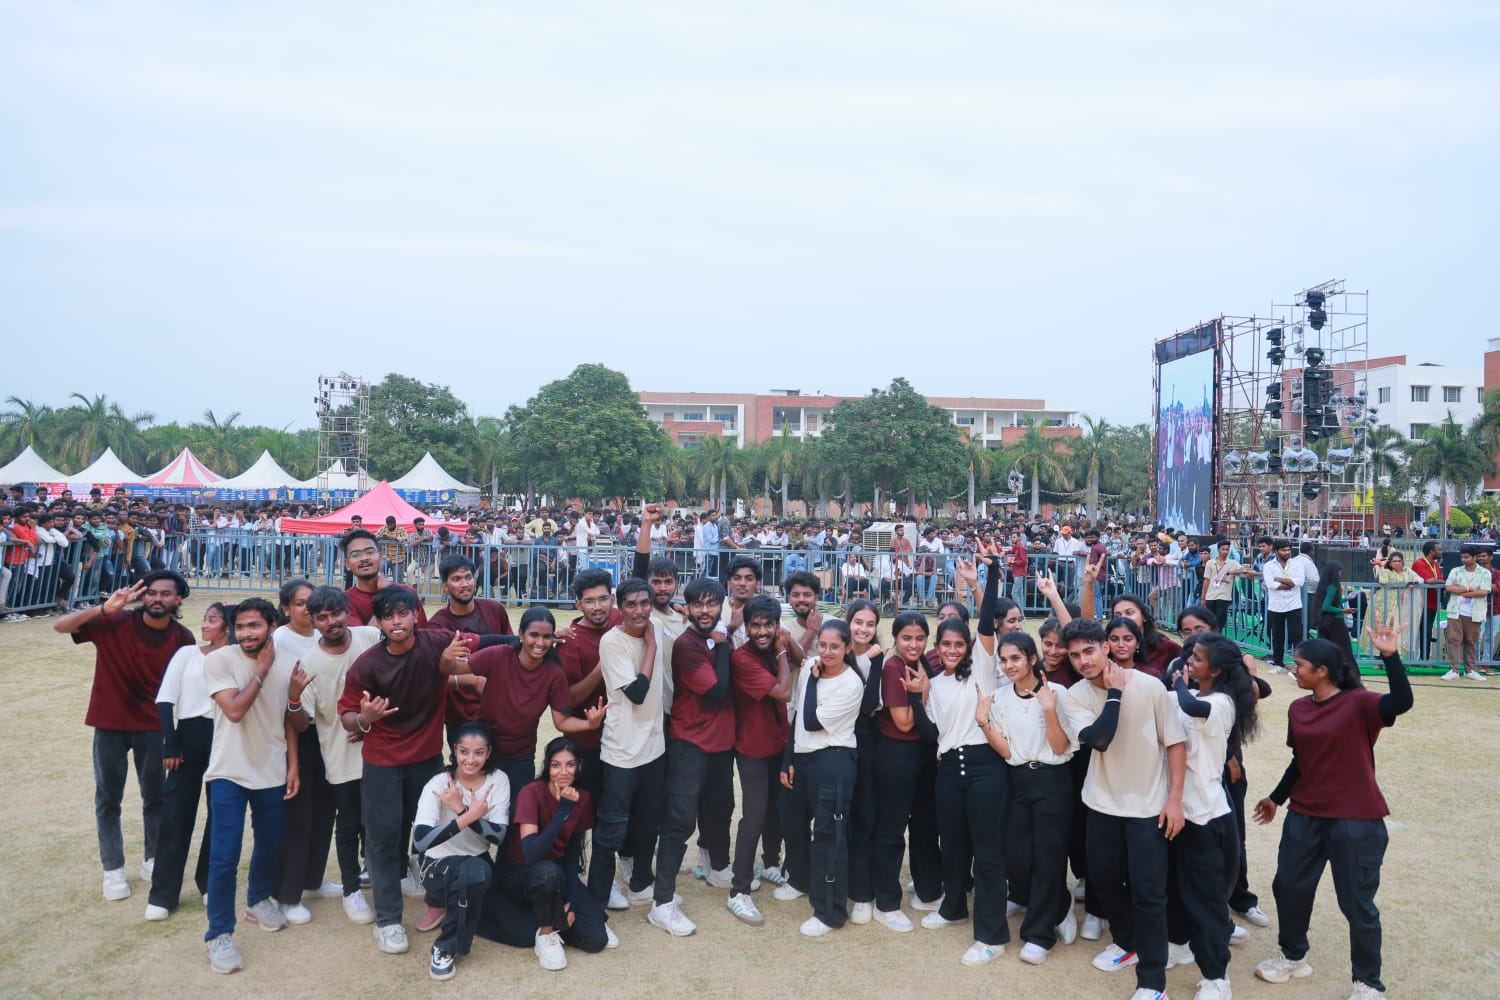
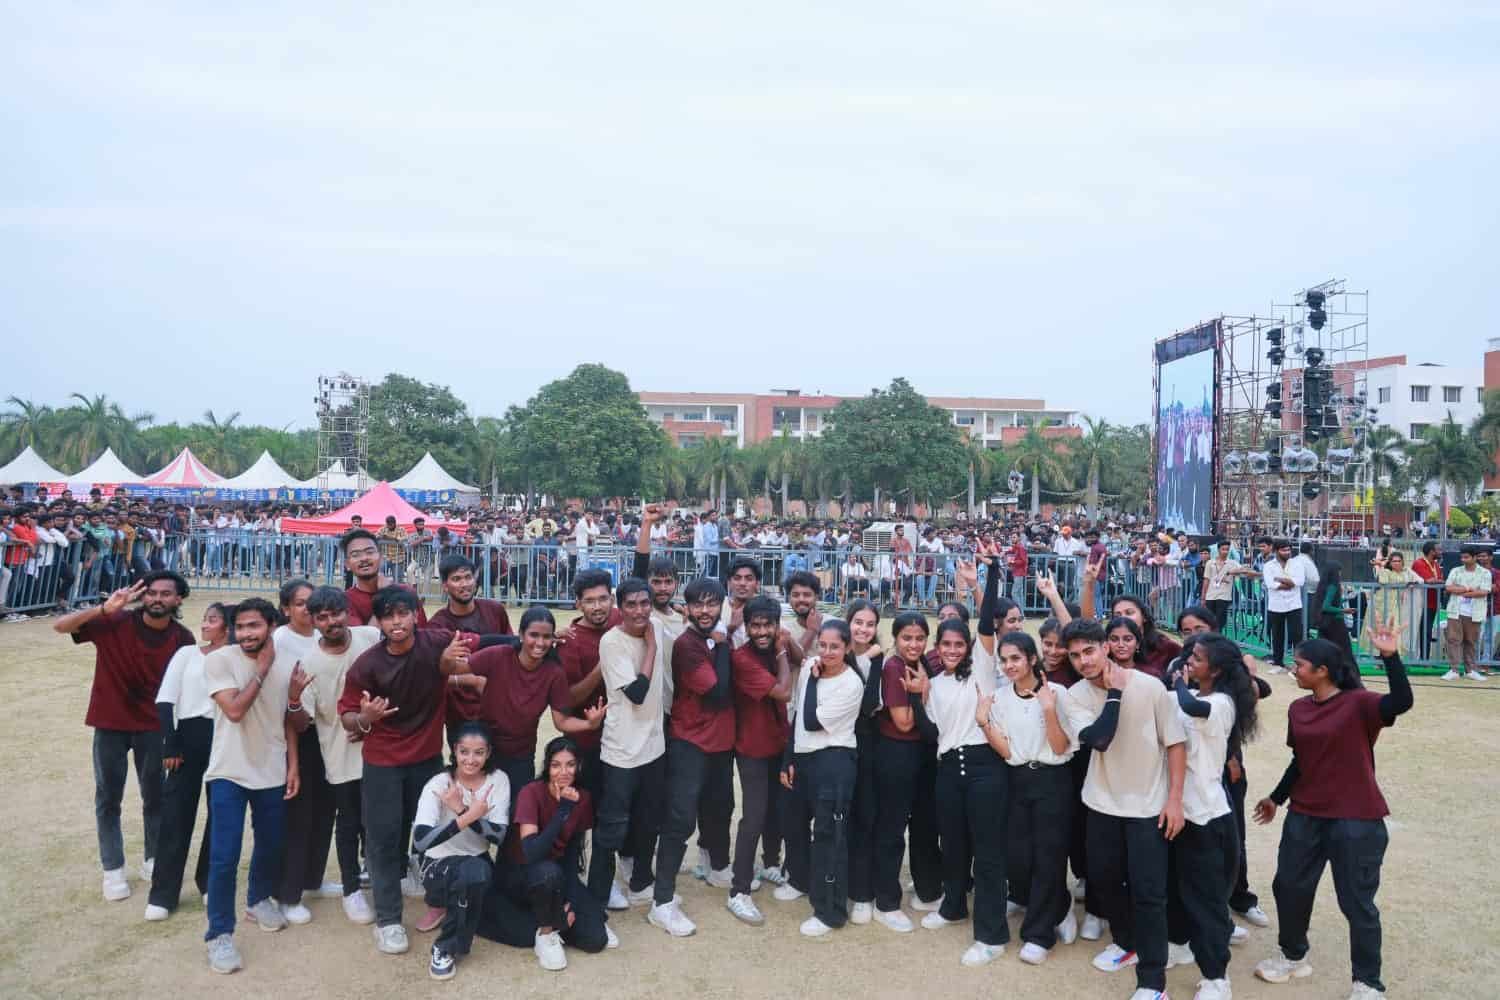
Images sizes are reduced and optimized the speed of gallery page

diff --git a/src/pages/Highlights.tsx b/src/pages/Highlights.tsx
@@ -1,4 +1,4 @@
-import React from "react";
+import React, { Suspense, useEffect } from "react";
 import PillNav from "../components/ui/pillNav";
 import Logo from "@/assets/spark-logo.png";
 import PreviousYear from "@/components/PreviousYear";
@@ -8,207 +8,209 @@ import { BeamsBackground } from "@/components/ui/beams";
 import CircularTestimonials from "@/components/ui/bts";
 import { motion } from "motion/react";
 import Footer from "@/components/Footer";
+import { useLocation } from "react-router-dom";
+import { SmoothScroll } from "@/components/ui/smooth-scroll";
+
+
+// YOUR EXACT ORIGINAL IMAGES - UNCHANGED
 import img1 from "../assets/gallery_images/img1.jpg";
-import img2 from "../assets/gallery_images/img2.jpg";
+import img19 from "../assets/gallery_images/img19.jpg";
 import img3 from "../assets/gallery_images/img3.jpg";
 import img4 from "../assets/gallery_images/img4.jpg";
 import img5 from "../assets/gallery_images/img5.jpg";
 import img6 from "../assets/gallery_images/img6.jpg";
 import img7 from "../assets/gallery_images/img7.jpg";
 import img8 from "../assets/gallery_images/img8.jpg";
-import img9 from "../assets/gallery_images/img9.jpg";
-import img10 from "../assets/gallery_images/img10.jpg";
+import img21 from "../assets/gallery_images/img21.jpg";
+import img25 from "../assets/gallery_images/img25.jpg";
 import img11 from "../assets/gallery_images/img11.jpg";
 import img12 from "../assets/gallery_images/img12.jpg";
 import img13 from "../assets/gallery_images/img13.jpg";
 import img14 from "../assets/gallery_images/img14.jpg";
-import img15 from "../assets/gallery_images/img15.jpg";
-import img16 from "../assets/gallery_images/img16.jpg";
-import img17 from "../assets/gallery_images/img17.jpg";
-import img18 from "../assets/gallery_images/img18.jpg";
-import img19 from "../assets/gallery_images/img19.jpg";
-import img20 from "../assets/gallery_images/img20.jpg";
-import img21 from "../assets/gallery_images/img21.jpg";
-import img22 from "../assets/gallery_images/img22.jpg";
-import img23 from "../assets/gallery_images/img23.jpg";
-import img24 from "../assets/gallery_images/img24.jpg";
-import img25 from "../assets/gallery_images/img25.jpg";
-import img26 from "../assets/gallery_images/img26.jpg";
-import img27 from "../assets/gallery_images/img27.jpg";
-import img28 from "../assets/gallery_images/img28.jpg";
-import img29 from "../assets/gallery_images/img29.jpg";
-import img30 from "../assets/gallery_images/img30.jpg";
-import img31 from "../assets/gallery_images/img31.jpg";
-import img32 from "../assets/gallery_images/img32.jpg";
-import img33 from "../assets/gallery_images/img33.jpg";
-import img34 from "../assets/gallery_images/img34.jpg";
-import img35 from "../assets/gallery_images/img35.jpg";
-import img36 from "../assets/gallery_images/img36.jpg";
-import img37 from "../assets/gallery_images/img37.jpg";
-import img38 from "../assets/gallery_images/img38.jpg";
-import img39 from "../assets/gallery_images/img39.jpg";
 import img41 from "../assets/gallery_images/img41.jpg";
+import img35 from "../assets/gallery_images/img35.jpg";
+import img29 from "../assets/gallery_images/img29.jpg";
+import img18 from "../assets/gallery_images/img18.jpg";
+import img2 from "../assets/gallery_images/img2.jpg";
+import img20 from "../assets/gallery_images/img20.jpg";
+import img39 from "../assets/gallery_images/img39.jpg";
 import img42 from "../assets/gallery_images/img42.jpg";
+import img26 from "../assets/gallery_images/img26.jpg";
 
-
-
-
-
-
-
-import { useLocation } from "react-router-dom";
 
 const products = [
-  { title: "", link: "#", thumbnail: img1 },
-  { title: "", link: "#", thumbnail: img19 },
-  { title: "", link: "#", thumbnail: img3 },
-  { title: "", link: "#", thumbnail: img4 },
-  { title: "", link: "#", thumbnail: img5 },
-  { title: "", link: "#", thumbnail: img6 },
-  { title: "", link: "#", thumbnail: img7 },
-  { title: "", link: "#", thumbnail: img8 },
-  { title: "", link: "#", thumbnail: img21 },
-  { title: "", link: "#", thumbnail: img25 },
-  { title: "", link: "#", thumbnail: img11 },
-  { title: "", link: "#", thumbnail: img12 },
-  { title: "", link: "#", thumbnail: img13 },
-  { title: "", link: "#", thumbnail: img14 },
-  { title: "", link: "#", thumbnail: img41 },
+  { title: "", link: "#", thumbnail: img1 },
+  { title: "", link: "#", thumbnail: img19 },
+  { title: "", link: "#", thumbnail: img3 },
+  { title: "", link: "#", thumbnail: img4 },
+  { title: "", link: "#", thumbnail: img5 },
+  { title: "", link: "#", thumbnail: img6 },
+  { title: "", link: "#", thumbnail: img7 },
+  { title: "", link: "#", thumbnail: img8 },
+  { title: "", link: "#", thumbnail: img21 },
+  { title: "", link: "#", thumbnail: img25 },
+  { title: "", link: "#", thumbnail: img11 },
+  { title: "", link: "#", thumbnail: img12 },
+  { title: "", link: "#", thumbnail: img13 },
+  { title: "", link: "#", thumbnail: img14 },
+  { title: "", link: "#", thumbnail: img41 },
 ];
+
 
 const galleryItems = [
-  { image: img35, text: "" },
-  { image: img29, text: "" },
-  { image: img18, text: "" },
-  { image: img2, text: "" },
-  { image: img20, text: "" },
+  { image: img35, text: "" },
+  { image: img29, text: "" },
+  { image: img18, text: "" },
+  { image: img2, text: "" },
+  { image: img20, text: "" },
 ];
 
-const images = [
-  img25, img39, img42, img26
-];
 
-import { SmoothScroll } from "@/components/ui/smooth-scroll";
+const images = [img25, img39, img42, img26];
+
 
 const HighlightsPage: React.FC = () => {
-  const location = useLocation();
-  return (
-    <>
-      <>
-        <div className="fixed top-0 left-0 right-0 z-[1000]">
-          <PillNav
-            logo={Logo}
-            logoAlt="spark Logo"
-            items={[
-              { label: "Gallery", href: "/highlights" },
-              { label: "Proshow", href: "/proshow" },
-              { label: "Team", href: "/team" },
-              { label: "Register", href: "/register" },
-            ]}
-            activeHref="/highlights"
-            className="custom-nav"
-            ease="power2.easeOut"
-            baseColor="#040204ff"
-            pillColor="linear-gradient(130deg, #b510ebff, #f81184ff)"
-            hoveredPillTextColor="#fbfbfbff"
-            pillTextColor="#faf3f3ff" />
-        </div>
-
-        <motion.div
-          initial={{ opacity: 0 }}
-          animate={{ opacity: 1 }}
-          exit={{ opacity: 0 }}
-          transition={{ duration: 0.5 }}
-          className="min-h-screen text-white relative overflow-x-hidden bg-black selection:bg-pink-500/30"
-        >
-          {/* Background elements with smooth entry */}
-          <motion.div
-            initial={{ opacity: 0 }}
-            animate={{ opacity: 1 }}
-            transition={{ duration: 1.5 }}
-            className="fixed inset-0 z-0"
-          >
-            {/* <BeamsBackground /> */}
-          </motion.div>
-
-          <div className="w-full">
-            {/* 🔹 Video Section */}
-
-            <div className="absolute inset-0 bg-black/40" />
-
-            <div className="relative z-10 flex h-full items-center justify-center">
-              {/* Nav was here */}
-            </div>
-          </div>
+  const location = useLocation();
 
 
-
-          <div className="relative z-10">
-            <section>
-              <HeroParallax products={products} />
-            </section>
-
-            {/* Featured Highlights Section */}
-            <motion.section
-              initial={{ opacity: 0, y: 50 }}
-              whileInView={{ opacity: 1, y: 0 }}
-              viewport={{ once: true, margin: "-100px" }}
-              transition={{ duration: 0.8, ease: "easeOut" }}
-              className="min-h-[80vh] flex flex-col justify-center py-20 relative"
-            >
-              {/* Decorative side line */}
-              <div className="absolute left-0 top-1/2 -translate-y-1/2 w-1 h-32 bg-gradient-to-b from-transparent via-cyan-500 to-transparent opacity-50" />
-
-              <h2 className="text-4xl md:text-6xl font-orbitron font-black text-center mb-4 tracking-widest bg-gradient-to-r from-pink-600 to-cyan-400 bg-clip-text text-transparent drop-shadow-[0_0_15px_rgba(236,72,153,0.3)]">
-                HIGHLIGHTS
-              </h2>
-
-              <div className="h-[60vh] w-full">
-                <CircularGallery items={galleryItems} />
-              </div>
-            </motion.section>
-
-            {/* Previous Year Section */}
-            <motion.section
-              initial={{ opacity: 0 }}
-              whileInView={{ opacity: 1 }}
-              viewport={{ once: true }}
-              transition={{ duration: 1 }}
-              className="py-20 bg-gradient-to-b from-transparent via-black/40 to-transparent backdrop-blur-sm"
-            >
-              <PreviousYear />
-            </motion.section>
-
-            {/* BTS Section */}
-            <motion.section
-              initial={{ opacity: 0, y: 50 }}
-              whileInView={{ opacity: 1, y: 0 }}
-              viewport={{ once: true, margin: "-100px" }}
-              transition={{ duration: 0.8, ease: "easeOut" }}
-              className="py-20 min-h-[80vh] flex flex-col justify-center relative"
-            >
-              {/* Decorative side line */}
-              <div className="absolute right-0 top-1/2 -translate-y-1/2 w-1 h-32 bg-gradient-to-b from-transparent via-pink-500 to-transparent opacity-50" />
-
-              <h2 className="text-4xl md:text-6xl font-orbitron font-black text-center mb-4 tracking-widest bg-gradient-to-r from-[#FF1493] to-blue-600 bg-clip-text text-transparent drop-shadow-[0_0_15px_rgba(255,20,147,0.5)]">
-                BEHIND THE SCENES
-              </h2>
-
-              <CircularTestimonials
-                testimonials={images.map(src => ({ src }))} />
-            </motion.section>
-          </div>
-        </motion.div>
+  // 🔥 PRELOAD CRITICAL IMAGES FOR 1.5s SPEED BOOST
+  useEffect(() => {
+    [img1, img19, img3, img4, img5, img6].forEach(img => {
+      const link = document.createElement('link');
+      link.rel = 'preload';
+      link.as = 'image';
+      link.href = img;
+      document.head.appendChild(link);
+    });
+  }, []);
 
 
-      </>
-      <Footer />
+  return (
+    <>
+      <div className="fixed top-0 left-0 right-0 z-[1000]">
+        <PillNav
+          logo={Logo}
+          logoAlt="spark Logo"
+          items={[
+            { label: "Gallery", href: "/highlights" },
+            { label: "Proshow", href: "/proshow" },
+            { label: "Team", href: "/team" },
+            { label: "Register", href: "/register" },
+          ]}
+          activeHref="/highlights"
+          className="custom-nav"
+          ease="power2.easeOut"
+          baseColor="#040204ff"
+          pillColor="linear-gradient(130deg, #b510ebff, #f81184ff)"
+          hoveredPillTextColor="#fbfbfbff"
+          pillTextColor="#faf3f3ff" />
+      </div>
 
-    </>
+
+      <motion.div
+        initial={{ opacity: 0 }}
+        animate={{ opacity: 1 }}
+        exit={{ opacity: 0 }}
+        transition={{ duration: 0.2 }}
+        className="min-h-screen text-white relative overflow-x-hidden bg-black selection:bg-pink-500/30"
+      >
+        <motion.div
+          initial={{ opacity: 0 }}
+          animate={{ opacity: 1 }}
+          transition={{ duration: 1.5 }}
+          className="fixed inset-0 z-0"
+        >
+          {/* <BeamsBackground /> */}
+        </motion.div>
 
 
+        <div className="w-full">
+          <div className="absolute inset-0 bg-black/40" />
+          <div className="relative z-10 flex h-full items-center justify-center" />
 
-  );
+
+          <div className="relative z-10 pt-20">
+            {/* HERO PARALLAX - OPTIMIZED WITH PRELOADING */}
+            <section>
+              <Suspense fallback={
+                <section className="h-screen flex items-center justify-center bg-gradient-to-br from-black via-purple-900/20 to-blue-900/20">
+                  <motion.div
+                    animate={{ scale: [1, 1.1, 1] }}
+                    transition={{ duration: 2, repeat: Infinity }}
+                    className="w-24 h-24 md:w-32 md:h-32 bg-gradient-to-r from-pink-500 via-purple-500 to-cyan-500 rounded-full shadow-2xl shadow-pink-500/50 mx-auto mb-6"
+                  />
+                  <div className="text-center">
+                    <h1 className="text-4xl md:text-6xl font-orbitron font-black bg-gradient-to-r from-pink-600 to-cyan-400 bg-clip-text text-transparent tracking-widest">
+                      SPARK 2026
+                    </h1>
+                    <p className="text-lg md:text-xl text-gray-400 mt-2 font-light tracking-wide">
+                      Loading highlights...
+                    </p>
+                  </div>
+                </section>
+              }>
+                <HeroParallax products={products} />
+              </Suspense>
+            </section>
+
+
+            {/* YOUR ORIGINAL HIGHLIGHTS SECTION - UNCHANGED */}
+            <motion.section
+              initial={{ opacity: 0, y: 50 }}
+              whileInView={{ opacity: 1, y: 0 }}
+              viewport={{ once: true, margin: "-100px" }}
+              transition={{ duration: 0.8, ease: "easeOut" }}
+              className="min-h-[80vh] flex flex-col justify-center py-20 relative"
+            >
+              <div className="absolute left-0 top-1/2 -translate-y-1/2 w-1 h-32 bg-gradient-to-b from-transparent via-cyan-500 to-transparent opacity-50" />
+              <h2 className="text-4xl md:text-6xl font-orbitron font-black text-center mb-4 tracking-widest bg-gradient-to-r from-pink-600 to-cyan-400 bg-clip-text text-transparent drop-shadow-[0_0_15px_rgba(236,72,153,0.3)]">
+                HIGHLIGHTS
+              </h2>
+              <div className="h-[60vh] w-full">
+                <Suspense fallback={<div className="h-full flex items-center justify-center text-gray-500 text-lg">Loading gallery...</div>}>
+                  <CircularGallery items={galleryItems} />
+                </Suspense>
+              </div>
+            </motion.section>
+
+
+            {/* YOUR ORIGINAL PREVIOUS YEAR - UNCHANGED */}
+            <motion.section
+              initial={{ opacity: 0 }}
+              whileInView={{ opacity: 1 }}
+              viewport={{ once: true }}
+              transition={{ duration: 1 }}
+              className="py-20 bg-gradient-to-b from-transparent via-black/40 to-transparent backdrop-blur-sm"
+            >
+              <PreviousYear />
+            </motion.section>
+
+
+            {/* YOUR ORIGINAL BTS - UNCHANGED */}
+            <motion.section
+              initial={{ opacity: 0, y: 50 }}
+              whileInView={{ opacity: 1, y: 0 }}
+              viewport={{ once: true, margin: "-100px" }}
+              transition={{ duration: 0.8, ease: "easeOut" }}
+              className="py-20 min-h-[80vh] flex flex-col justify-center relative"
+            >
+              <div className="absolute right-0 top-1/2 -translate-y-1/2 w-1 h-32 bg-gradient-to-b from-transparent via-pink-500 to-transparent opacity-50" />
+              <h2 className="text-4xl md:text-6xl font-orbitron font-black text-center mb-4 tracking-widest bg-gradient-to-r from-[#FF1493] to-blue-600 bg-clip-text text-transparent drop-shadow-[0_0_15px_rgba(255,20,147,0.5)]">
+                BEHIND THE SCENES
+              </h2>
+              <Suspense fallback={<div className="h-[60vh] flex items-center justify-center text-gray-500 text-lg">Loading BTS...</div>}>
+                <CircularTestimonials testimonials={images.map(src => ({ src }))} />
+              </Suspense>
+            </motion.section>
+          </div>
+        </div>
+      </motion.div>
+
+
+      <Footer />
+    </>
+  );
 };
+
 
 export default HighlightsPage;
